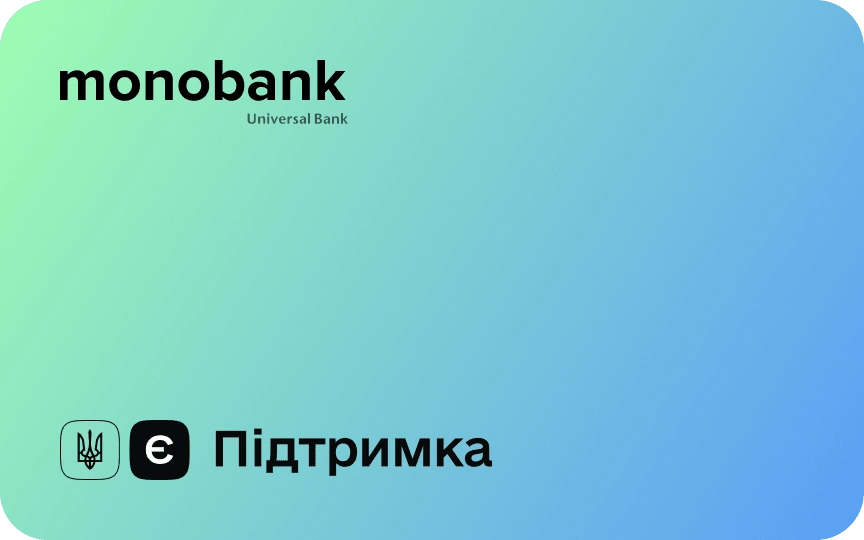
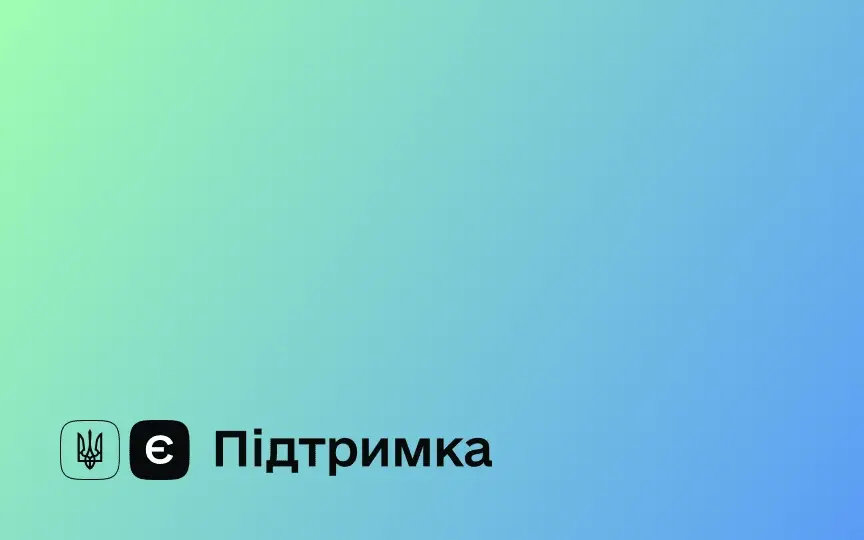
Add other types cards

diff --git a/src/elements/card/Card.svelte b/src/elements/card/Card.svelte
@@ -7,44 +7,44 @@
     const translate = (/** @type {string} */ input) =>
         CyrillicToTranslit({ preset: "uk" }).transform(input);
 
-    let accountNumber;
-    const account = (/** @type {{ accounts: any; }} */ client) =>
-        (accountNumber = client.accounts.find(
-            (/** @type {{ type: string; currencyCode: number; }} */ x) =>
-                x.type === "black" && x.currencyCode === 980,
-        ).maskedPan[0]);
-
     let cardActive = false;
 
-    afterUpdate(() => {
-        account(client);
-
-        setTimeout(() => (cardActive = true), 2e2);
-    });
+    afterUpdate(() => { setTimeout(() => (cardActive = true), 2e2) });
 
     export let client;
-
-    // this is demo card element
 </script>
 
 <div class="max-w-[480px] m-auto py-10 px-8">
-    <div class="card black {cardActive ? 'active' : ''}">
+    <!-- <div class="block m-auto max-w-[350px]">
+        <h1>{ accountDisplay?.balance }</h1>
+        <p>Власні кошти: { accountDisplay?.balance - accountDisplay?.creditLimit }</p>
+        <p>Кредитний ліміт: { accountDisplay?.creditLimit }</p>
+    </div> -->
+    {#each client.accounts as account}
+    <div class="card mb-3 {account.type} {cardActive ? 'active' : ''}">
+        {#if !["rebuilding"].includes(account.type)}
         <img
             src="/images/monologo.webp"
-            class="logo bank invert"
+            class="logo bank"
             alt="Логотип на картці"
         />
+        {/if}
         <img
-            src="/images/payment-system/{getCardType(accountNumber)}-logo.webp"
-            class="logo system"
+            src="/images/payment-system/{getCardType(account.maskedPan[0])}-logo.webp"
+            class="logo system { ["white"].includes(account.type) && getCardType(account.maskedPan[0]) === "visa" ? "invert" : "" }"
             alt="Платіжна система"
         />
+        {#if !["eAid", "rebuilding"].includes(account.type)}
         <div class="display name">{translate(client.name)}</div>
+        {/if}
         <div class="display card-number">
-            {accountNumber?.match(/.{1,4}/g)?.join(" ")}
+            {account.maskedPan[0]?.match(/.{1,4}/g)?.join(" ")}
         </div>
+        {#if !["white", "eAid", "rebuilding"].includes(account.type)}
         <div class="display currency-symbol">₴</div>
+        {/if}
     </div>
+    {/each}
 </div>
 
 <style>
@@ -59,6 +59,7 @@
         max-width: 100%;
         height: auto;
         padding-bottom: 60%;
+        background-size: cover;
     }
     .card::before {
         content: "";
@@ -131,5 +132,30 @@
     /* skins */
     .black {
         background: linear-gradient(160deg, #282828 0%, #020202 100%);
+    }
+    .black > .logo.bank {
+        filter: invert(1);
+    }
+
+    .white {
+        background: #fff;
+        color: #000;
+    }
+    .white > .display {
+        color: #000;
+    }
+
+    .eAid {
+        background-image: url(/images/cards/eAid-card.webp);
+    }
+    .eAid > .display {
+        color: #000;
+    }
+
+    .rebuilding {
+        background-image: url(/images/cards/rebuilding-card.webp);
+    }
+    .rebuilding > .display {
+        color: #fff;
     }
 </style>
